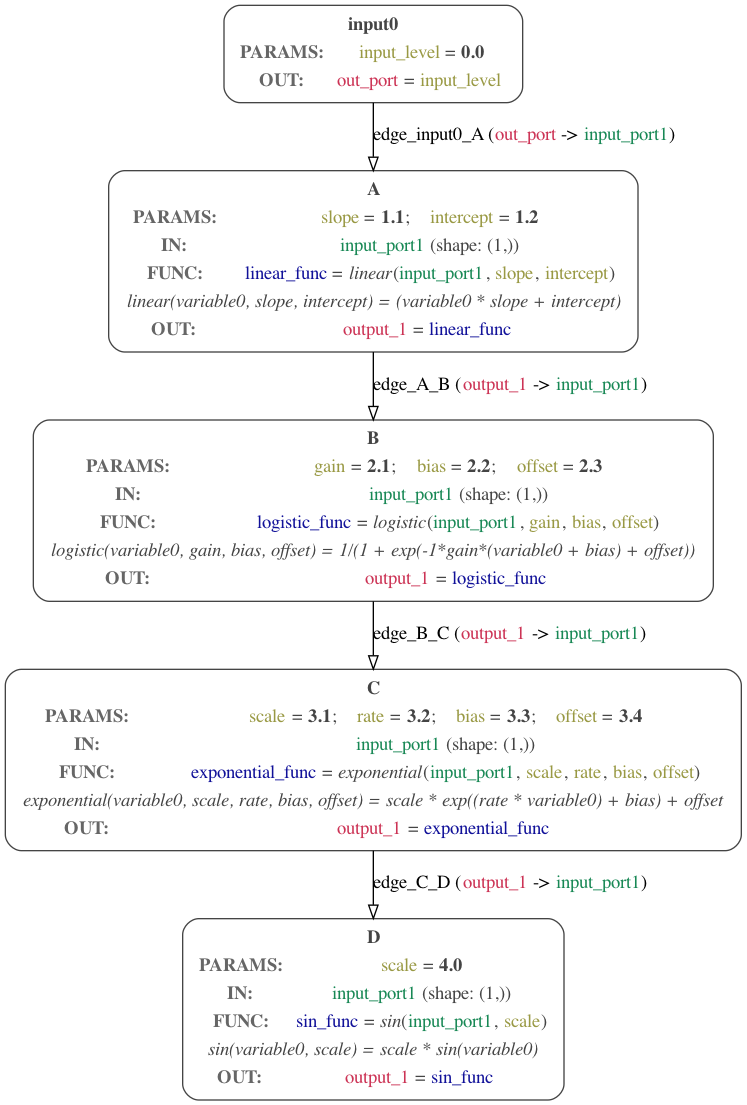
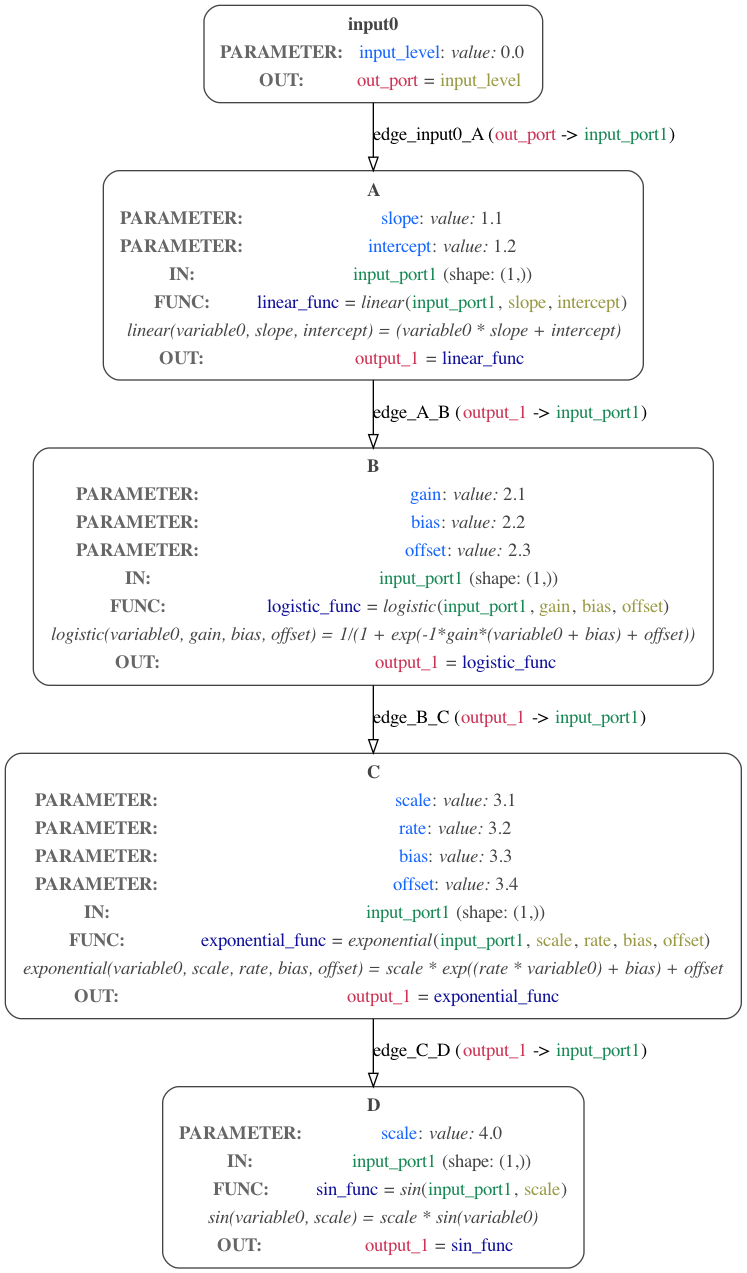
Tested more examples

diff --git a/examples/MDF/abcd.py b/examples/MDF/abcd.py
@@ -14,7 +14,8 @@ def main():
     mod_graph = Graph(id="abcd_example")
     mod.graphs.append(mod_graph)
 
-    input_node = Node(id="input0", parameters={"input_level": 0.0})
+    input_node = Node(id="input0")
+    input_node.parameters.append(Parameter(id="input_level", value=0.0))
     op1 = OutputPort(id="out_port")
     op1.value = "input_level"
     input_node.output_ports.append(op1)
@@ -26,8 +27,8 @@ def main():
     # a = create_example_node('A', mod_graph)
     a = Node(id="A")
     mod_graph.nodes.append(a)
-
-    a.parameters = {"slope": abcd.A_slope, "intercept": abcd.A_intercept}
+    a.parameters.append(Parameter(id="slope", value=abcd.A_slope))
+    a.parameters.append(Parameter(id="intercept", value=abcd.A_intercept))
     ip1 = InputPort(id="input_port1", shape="(1,)")
     a.input_ports.append(ip1)
 
@@ -44,7 +45,9 @@ def main():
     b = Node(id="B")
     mod_graph.nodes.append(b)
 
-    b.parameters = {"gain": abcd.B_gain, "bias": abcd.B_bias, "offset": abcd.B_offset}
+    b.parameters.append(Parameter(id="gain", value=abcd.B_gain))
+    b.parameters.append(Parameter(id="bias", value=abcd.B_bias))
+    b.parameters.append(Parameter(id="offset", value=abcd.B_offset))
     ip1 = InputPort(id="input_port1", shape="(1,)")
     b.input_ports.append(ip1)
 
@@ -61,12 +64,10 @@ def main():
     c = Node(id="C")
     mod_graph.nodes.append(c)
 
-    c.parameters = {
-        "scale": abcd.C_scale,
-        "rate": abcd.C_rate,
-        "bias": abcd.C_bias,
-        "offset": abcd.C_offset,
-    }
+    c.parameters.append(Parameter(id="scale", value=abcd.C_scale))
+    c.parameters.append(Parameter(id="rate", value=abcd.C_rate))
+    c.parameters.append(Parameter(id="bias", value=abcd.C_bias))
+    c.parameters.append(Parameter(id="offset", value=abcd.C_offset))
     ip1 = InputPort(id="input_port1", shape="(1,)")
     c.input_ports.append(ip1)
 
@@ -89,7 +90,7 @@ def main():
     d = Node(id="D")
     mod_graph.nodes.append(d)
 
-    d.parameters = {"scale": abcd.D_scale}
+    d.parameters.append(Parameter(id="scale", value=abcd.D_scale))
     ip1 = InputPort(id="input_port1", shape="(1,)")
     d.input_ports.append(ip1)
 

diff --git a/src/modeci_mdf/execution_engine.py b/src/modeci_mdf/execution_engine.py
@@ -175,7 +175,20 @@ class EvaluableParameter:
     def __init__(self, parameter, verbose=False):
         self.verbose = verbose
         self.parameter = parameter
-        self.curr_value = 0
+        self.curr_value = None
+
+    def get_current_value(self, parameters, array_format=FORMAT_DEFAULT):
+        if self.curr_value == None:
+            if self.parameter.value:
+
+                self.curr_value = evaluate_expr(
+                    self.parameter.value,
+                    parameters,
+                    verbose=False,
+                    array_format=array_format,
+                )
+        return self.curr_value
+
 
     def evaluate(self, parameters, time_increment=None, array_format=FORMAT_DEFAULT):
         if self.verbose:
@@ -367,8 +380,8 @@ class EvaluableNode:
 
         if self.verbose:
             print(
-                "  Evaluating Node: %s with %s"
-                % (self.node.id, _params_info(self.node.parameters))
+                "\n  ---------------\n  Evaluating Node: %s with %s"
+                % (self.node.id, [p.id for p in self.node.parameters])
             )
         curr_params = {}
 
@@ -384,7 +397,7 @@ class EvaluableNode:
 
         # First set params to previous parameter values for use in funcs and states...
         for ep in self.evaluable_parameters:
-            curr_params[ep] = self.evaluable_parameters[ep].curr_value
+            curr_params[ep] = self.evaluable_parameters[ep].get_current_value(curr_params, array_format=array_format)
 
 
         for ef in self.evaluable_functions:
@@ -508,7 +521,7 @@ class EvaluableGraph:
         for ts in self.scheduler.run():
             if self.verbose:
                 print(
-                    " Evaluating time step: %s"
+                    "> Evaluating time step: %s"
                     % self.scheduler.get_clock(None).simple_time
                 )
             for node in ts:
